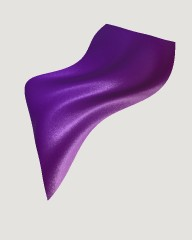
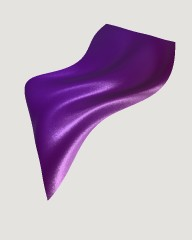
Mystique dot screen from the shop close-up: packed dots in turned grains
The nktextile purple close-up shows round dots of one size packed evenly
everywhere, in small patches of honeycomb rows that run their own way and
curve a little (pressed marbles), not chains with bare lanes.

- fabric.js near branch: grains (jittered grid, GRAIN 9 cells), each its
  own lattice turn (0-60 deg) and shift; a point takes the dot from its two
  nearest grains, kept only if the dot centre lies in that grain. uBend
  (bendOf) bends the lattice gently; the dot offset goes back through the
  bend's Jacobian so dots stay round. Maze (uMaze, MAZE_*) removed.
- Foil dots of uBlend fabrics use the normal before the knit (nCloth):
  the knit relief streaked each dot.
- Mystique presets: presence 1, dotR 0.4, tilt 0.1, rough 0.14, bend 1
  (tilt 0.15 gave salt-and-pepper dots; 0.07 lost the body's highlight
  grain).
- drape-eval.js: macro view at the close-up's scale and a relief argument.
- Mystique, opal and ombre mystique tiles re-rendered.

diff --git a/app/src/materials/fabric.js b/app/src/materials/fabric.js
@@ -93,7 +93,7 @@ uniform float uPresence;   // fraction of cells that carry a flake
 uniform float uTilt;       // random flake tilt (tangent of the typical angle)
 uniform float uFoilRough;
 uniform float uBlend;      // 1 = flat foil dots whose sparkle averages into a shimmer far away
-uniform float uMaze;       // 1 = dots printed in winding chains (mystique's maze screen), not an even lattice
+uniform float uBend;       // cells the dot lattice is bent by (mystique: rows curving from patch to patch)
 uniform float uColorVar;   // per-flake brightness variation
 uniform vec3 uFoilColor;
 uniform float uHolo;       // 0..1 share of rainbow in the foil colour
@@ -165,10 +165,6 @@ uniform sampler2D tDecal;
 uniform vec4 uWrinkle[ 3 ];
 uniform vec4 uWrinkleN[ 3 ];
 
-// Maze screen (uMaze): wave number of the maze (zero lines about pi / MAZE_K = 1.9 cells apart), the
-// half-width of the gaps along them (cells), and the share of lattice dots that leaves.
-const float MAZE_K = 1.65, MAZE_GAP = .3, MAZE_KEEP = .72;
-
 vec3 hash32( vec2 p ) {
 	vec3 p3 = fract( vec3( p.xyx ) * vec3( .1031, .1030, .0973 ) );
 	p3 += dot( p3, p3.yxz + 33.33 );
@@ -184,6 +180,13 @@ float vnoise( vec2 p ) {
 	f = f * f * ( 3. - 2. * f );
 	return mix( mix( hash21( i ), hash21( i + vec2( 1, 0 ) ), f.x ),
 		mix( hash21( i + vec2( 0, 1 ) ), hash21( i + 1. ), f.x ), f.y );
+}
+// Mystique's dot screen (uBend): grains about GRAIN cells across, each its own turned honeycomb, bent
+// by a slow displacement (cells, two octaves) so the rows also curve within a grain.
+const float GRAIN = 9.;
+vec2 bendOf( vec2 c ) {
+	return ( vec2( vnoise( c * .045 ), vnoise( c * .045 + 19.7 ) ) - .5 ) * 2. * uBend
+		+ ( vec2( vnoise( c * .11 + 3.3 ), vnoise( c * .11 + 8.1 ) ) - .5 ) * .7 * uBend;
 }
 // xy = offset from the cell centre, zw = cell id. Centres are 1 apart.
 vec4 hexCell( vec2 p ) {
@@ -321,6 +324,7 @@ const FABRIC_FRAGMENT = /* glsl */`
 	// moire): the loop's two legs first, then the courses, then the wale columns. The grooves
 	// between the wales are deeper than the gap between a loop's legs, and a little darker.
 	// A scanned texture brings its own knit, so this one is off under a scan.
+	vec3 nCloth = normal; // before the knit: what mystique's foil dots lie on (below)
 	if ( uKnit > 0. && uTex < .5 ) {
 		const vec2 kp = vec2( .00038, .00023 ); // wale, course pitch (m)
 		float fw = 1. - smoothstep( .3, .5, fp / kp.x ), fc = 1. - smoothstep( .3, .5, fp / kp.y );
@@ -359,28 +363,45 @@ const FABRIC_FRAGMENT = /* glsl */`
 		// Near: resolve each flake as a disc in a hex cell with its own tilt. (The two branches
 		// are skipped where they contribute nothing; most pixels only ever need one of them.)
 		if ( w < 1. ) {
-			vec4 hc = hexCell( qc );
-			vec3 rn = hash32( hc.zw );
-			// Nudge each flake off the lattice centre (it still fits its own cell): a perfect grid
-			// beats against the pixel grid and shows moire at mid distance.
-			vec2 jit = ( hash32( hc.zw + 3.7 ).xy - .5 ) * 2. * max( .5 - uDotR, 0. );
-			nearMask = ( 1. - smoothstep( uDotR - r * .7, uDotR + r * .7, length( hc.xy - jit ) ) ) * step( rn.z, uPresence );
-			// Mystique's foil is printed in winding chains of dots with bare gaps between them, like a
-			// fingerprint (close-ups and a swatch video, 2026-10-27): densely packed, short chains turning
-			// every way. A sum of six waves of one wavelength in six directions, their phases drifting
-			// slowly so it never repeats, has maze-like zero lines (as Turing patterns do); dots within
-			// MAZE_GAP cells of a zero line are left out, the gaps between chains.
-			if ( uMaze > 0. ) {
-				vec2 c = qc - hc.xy;
-				float f = 0.; vec2 gf = vec2( 0. );
-				for ( int i = 0; i < 6; i ++ ) {
-					float a = float( i ) * .5236 + .2, ph = 6.283 * vnoise( c * .04 + float( i ) * 17.3 );
-					vec2 d = vec2( cos( a ), sin( a ) ) * MAZE_K;
-					f += cos( dot( c, d ) + ph ); gf -= sin( dot( c, d ) + ph ) * d;
+			// Mystique's dots are packed evenly, like marbles pressed together: in small patches they sit
+			// in honeycomb rows, each patch's rows running their own way and curving a little, which reads
+			// as short wavy chains (shop close-up, 2026-10-27). So: grains of about GRAIN cells (a jittered
+			// grid), each with its own turned and shifted lattice; a point takes the dot under it from its two
+			// nearest grains, each kept only if the dot's centre lies in that grain (dots are never cut by a
+			// grain's edge). The lattice is looked up in gently bent coordinates (uBend), and the offset to
+			// the dot's centre is taken back through the bend (its Jacobian) so the dots stay round.
+			vec2 qn = qc, off = vec2( 9. ), did = vec2( 0. ); mat2 unbend = mat2( 1. );
+			if ( uBend > 0. ) {
+				vec2 b0 = bendOf( qc );
+				qn = qc + b0;
+				unbend = inverse( mat2( 1. ) + mat2( bendOf( qc + vec2( .5, 0. ) ) - b0, bendOf( qc + vec2( 0., .5 ) ) - b0 ) * 2. );
+				vec2 g = floor( qn / GRAIN ), c1 = vec2( 0. ), c2 = vec2( 0. ), k1 = vec2( 0. ), k2 = vec2( 0. );
+				float d1 = 1e9, d2 = 1e9;
+				for ( int j = - 1; j <= 1; j ++ ) for ( int i = - 1; i <= 1; i ++ ) {
+					vec2 k = g + vec2( i, j ), c = ( k + .15 + .7 * hash32( k + 41.7 ).xy ) * GRAIN;
+					float d = dot( qn - c, qn - c );
+					if ( d < d1 ) { d2 = d1; c2 = c1; k2 = k1; d1 = d; c1 = c; k1 = k; } else if ( d < d2 ) { d2 = d; c2 = c; k2 = k; }
 				}
-				nearMask *= mix( 1., step( MAZE_GAP, abs( f ) / max( length( gf ), 1e-3 ) ), uMaze );
+				for ( int s = 0; s < 2; s ++ ) {
+					vec2 c = s == 0 ? c1 : c2, o = s == 0 ? c2 : c1, k = s == 0 ? k1 : k2;
+					vec3 h = hash32( k + 7.9 );
+					float a = h.x * 1.0472, ca = cos( a ), sa = sin( a ); // any turn of a honeycomb is within 60 degrees
+					mat2 rot = mat2( ca, sa, - sa, ca );
+					vec4 hk = hexCell( rot * ( qn - c ) + h.yz * 9. );
+					vec2 jit = ( hash32( hk.zw + k * 131.7 + 3.7 ).xy - .5 ) * 2. * max( .5 - uDotR, 0. );
+					vec2 o2 = transpose( rot ) * ( hk.xy - jit ), cw = qn - o2; // offset from the dot, and its centre
+					if ( dot( cw - c, cw - c ) <= dot( cw - o, cw - o ) && dot( o2, o2 ) < dot( off, off ) ) { off = o2; did = hk.zw + k * 131.7; }
+				}
+			} else {
+				vec4 hc = hexCell( qc );
+				// Nudge each flake off the lattice centre (it still fits its own cell): a perfect grid
+				// beats against the pixel grid and shows moire at mid distance.
+				off = hc.xy - ( hash32( hc.zw + 3.7 ).xy - .5 ) * 2. * max( .5 - uDotR, 0. );
+				did = hc.zw;
 			}
-			nearTilt = hash32( hc.zw + 17.3 ) * 2. - 1.;
+			vec3 rn = hash32( did );
+			nearMask = ( 1. - smoothstep( uDotR - r * .7, uDotR + r * .7, length( unbend * off ) ) ) * step( rn.z, uPresence );
+			nearTilt = hash32( did + 17.3 ) * 2. - 1.;
 			rvNear = rn.x;
 		}
 
@@ -396,7 +417,7 @@ const FABRIC_FRAGMENT = /* glsl */`
 			rvFar = ta.z;
 			farDots = s0 * s0 * mix( 1., 4., lf ) * 1.155 * uPresence; // flakes in a cell (1.155 per unit² on the hex lattice)
 		}
-		float coverage = min( 3.6276 * uDotR * uDotR, 1. ) * uPresence * mix( 1., MAZE_KEEP, uMaze );
+		float coverage = min( 3.6276 * uDotR * uDotR, 1. ) * uPresence;
 		// sparse flakes stay sparse far away: only a coverage share of the pixel-sized cells carry one
 		// (denser foils, coverage over 0.3, keep every cell sparkling as in the POC)
 		float farOn = coverage > .3 ? coverage : step( fract( rvFar * 7.31 ), coverage );
@@ -412,7 +433,9 @@ const FABRIC_FRAGMENT = /* glsl */`
 		vec3 tilt = mix( nearTilt, farTilt * keep, w );
 		float rv = mix( rvNear, rvFar, w );
 
-		vec3 nF = normalize( normal + ( tilt - normal * dot( tilt, normal ) ) * uTilt );
+		// Flat foil dots (uBlend) bridge the knit's loops: a smooth disc each, not ridged by the knit
+		vec3 nBase = uBlend > 0. ? nCloth : normal;
+		vec3 nF = normalize( nBase + ( tilt - nBase * dot( tilt, nBase ) ) * uTilt );
 		// a sparse flake turned away from the camera would shade black: keep it facing us a little
 		if ( coverage <= .3 ) { float fv = dot( nF, viewDir ); if ( fv < .2 ) nF = normalize( nF + viewDir * ( .2 - fv ) ); }
 		// On an ombre the foil is printed with the same gradient as the cloth under it.
@@ -593,7 +616,7 @@ export function createFabricMaterial(zone) {
 		uTrimInset: { value: 0 }, uTrimWidth: { value: 0 }, uRows: { value: new THREE.Vector2() }, uThread: { value: new THREE.Color() },
 		uTapeY: { value: new THREE.Vector4(1.04, 1.168, 0.83, 1.357) }, uTapeColor: { value: new THREE.Color(0x15151a) },
 		uFlake: { value: 0 }, uPitch: { value: 0.001 }, uDotR: { value: 0.4 }, uPresence: { value: 1 }, uTilt: { value: 0.1 },
-		uFoilRough: { value: 0.2 }, uBlend: { value: 0 }, uMaze: { value: 0 }, uColorVar: { value: 0 }, uFoilColor: { value: new THREE.Color(1, 1, 1) },
+		uFoilRough: { value: 0.2 }, uBlend: { value: 0 }, uBend: { value: 0 }, uColorVar: { value: 0 }, uFoilColor: { value: new THREE.Color(1, 1, 1) },
 		uHolo: { value: 0 }, uHoloFreq: { value: 3 }, uHoloJit: { value: 0.2 }, uHoloDirW: { value: new THREE.Vector3(0.3, 1, 0.5).normalize() },
 		uMesh: { value: 0 }, uMeshPitch: { value: 0.0007 }, uHoleR: { value: 0.34 },
 		uBumpAmp: { value: 0 }, uBumpScale: { value: 0.003 }, uKnit: { value: 0 },
@@ -633,8 +656,8 @@ export function createFabricMaterial(zone) {
 // Sheen is left off the foil and glitter fabrics on purpose: it roughly doubles the cost of every
 // light and is invisible next to the foil.
 // Flake fields: pitch (m), dotR (cells), presence, tilt, rough, colorVar, holo, holoFreq, holoJit, blend
-// (1: flat foil dots whose sparkle averages into a shimmer far away), maze (1: dots in winding chains);
-// blend and maze are mystique's, from its 2026-10-27 audit.
+// (1: flat foil dots whose sparkle averages into a shimmer far away), bend (cells: the dot lattice's
+// rows curve from patch to patch); blend and bend are mystique's, from its 2026-10-27 audit.
 export const FABRICS = {
 	// Matte lycra's sheen is low and close to its own colour: at 0.4 and a third white (the tint is
 	// mixed in linear light, so a third white is nearly white on a dark colour) a dark green's
@@ -656,13 +679,13 @@ export const FABRICS = {
 	wet: { label: 'Wet look (cire)', roughness: 0.32, sheen: 0.15, sheenRoughness: 0.5, clearcoat: 0.55, clearcoatRoughness: 0.2, anisotropy: 0.5, knit: 1 },
 	// Mystique's dots at 133%: about 1 mm apart, as in the owner's swatch video and shop close-ups
 	// (2026-10-27); at 75% (the owner's 2026-10-24 pick) they blurred into a satin sheen at swatch distance.
-	mystique: { label: 'Mystique (foil dots)', roughness: 0.62, knit: 1, flake: { pitch: 0.00075, dotR: 0.42, presence: 0.97, tilt: 0.15, rough: 0.12, colorVar: 0.1, blend: 1, maze: 1 }, texScale: 1.33 },
+	mystique: { label: 'Mystique (foil dots)', roughness: 0.62, knit: 1, flake: { pitch: 0.00075, dotR: 0.4, presence: 1, tilt: 0.1, rough: 0.14, colorVar: 0.1, blend: 1, bend: 1 }, texScale: 1.33 },
 	// Opal mystique: the foil dots carry a soft rainbow that turns with the surface (an iridescent foil;
 	// a dyed knit cannot change colour with the angle). Its rate is a thin film's: about half to one
 	// and a half spectra from face on to 60 degrees, holoFreq ~0.6-1.8; 1 in the middle. (3.2, a
 	// diffraction foil's rate, ringed the body with rainbows; owner, 2026-10-27.) Panels can scale it
 	// (rainbow, render/garment.js).
-	opalmystique: { label: 'Opal mystique', roughness: 0.62, knit: 1, flake: { pitch: 0.00075, dotR: 0.42, presence: 0.97, tilt: 0.15, rough: 0.12, colorVar: 0.1, blend: 1, maze: 1, holo: 0.35, holoFreq: 1, holoJit: 0.15 }, texScale: 1.33 },
+	opalmystique: { label: 'Opal mystique', roughness: 0.62, knit: 1, flake: { pitch: 0.00075, dotR: 0.4, presence: 1, tilt: 0.1, rough: 0.14, colorVar: 0.1, blend: 1, bend: 1, holo: 0.35, holoFreq: 1, holoJit: 0.15 }, texScale: 1.33 },
 	hologram: { label: 'Hologram foil dots', roughness: 0.62, knit: 1, flake: { pitch: 0.0009, dotR: 0.37, presence: 1, tilt: 0.22, rough: 0.22, colorVar: 0.3, holo: 0.6, holoFreq: 0.9, holoJit: 0.5 } },
 	// The foils, film and velvets used to carry a value-noise "crinkle" bump (amp 0.1-0.7) from the
 	// POC: crumpled foil, not foil on a knit pulled tight over a body. On skin-tight fabric tension
@@ -677,7 +700,7 @@ export const FABRICS = {
 	mesh: { label: 'Stretch mesh (sheer)', roughness: 0.75, sheen: 0.3, sheenRoughness: 0.6, mesh: { pitch: 0.0007, holeR: 0.35 } },
 	glittermesh: { label: 'Glitter mesh', roughness: 0.75, mesh: { pitch: 0.0007, holeR: 0.35 }, flake: { pitch: 0.0005, dotR: 0.5, presence: 0.1, tilt: 0.5, rough: 0.1, colorVar: 0.5 } },
 	ombre: { label: 'Sublimated ombré', roughness: 0.74, sheen: 0.35, sheenRoughness: 0.6, knit: 1, ombre: true },
-	ombremystique: { label: 'Ombré mystique', roughness: 0.62, knit: 1, ombre: true, flake: { pitch: 0.00075, dotR: 0.42, presence: 0.97, tilt: 0.15, rough: 0.12, colorVar: 0.1, blend: 1, maze: 1 } },
+	ombremystique: { label: 'Ombré mystique', roughness: 0.62, knit: 1, ombre: true, flake: { pitch: 0.00075, dotR: 0.4, presence: 1, tilt: 0.1, rough: 0.14, colorVar: 0.1, blend: 1, bend: 1 } },
 	// Moodboard looks added in P3 (realism upgrade R7b). film: thin-film swirls { scale m, range nm, warp,
 	// tint: share of the film's colour in the cloth, hue: [per swirl, per angle] };
 	// duo: { pow } shift towards the second colour at grazing angles.
@@ -743,7 +766,7 @@ export function applyFabric(m, key, colour, second, colour2 = null, scale = 1) {
 	u.uFlake.value = fl ? 1 : 0;
 	if (fl) {
 		u.uPitch.value = fl.pitch * scale; u.uDotR.value = fl.dotR; u.uPresence.value = fl.presence; u.uTilt.value = fl.tilt;
-		u.uFoilRough.value = fl.rough; u.uBlend.value = fl.blend ?? 0; u.uMaze.value = fl.maze ?? 0; u.uColorVar.value = fl.colorVar ?? 0; u.uHolo.value = fl.holo ?? 0; u.uHoloFreq.value = fl.holoFreq ?? 3; u.uHoloJit.value = fl.holoJit ?? 0.2;
+		u.uFoilRough.value = fl.rough; u.uBlend.value = fl.blend ?? 0; u.uBend.value = fl.bend ?? 0; u.uColorVar.value = fl.colorVar ?? 0; u.uHolo.value = fl.holo ?? 0; u.uHoloFreq.value = fl.holoFreq ?? 3; u.uHoloJit.value = fl.holoJit ?? 0.2;
 		two(false, u.uFoilColor.value);
 	}
 	u.uDuo.value = f.duo ? 1 : 0;

diff --git a/app/src/dev/drape-eval.js b/app/src/dev/drape-eval.js
@@ -25,12 +25,12 @@ function height(x, z) {
 	return swirl + folds + peak + lean;
 }
 
-function drape() {
+function drape(relief = 1) {
 	const n = 360, pos = [], nrm = [], uv = [], idx = [], e = 1e-4;
 	for (let j = 0; j <= n; j++) for (let i = 0; i <= n; i++) {
 		const x = (i / n - 0.5) * 2 * R, z = (j / n - 0.5) * 2 * R;
-		const dx = (height(x + e, z) - height(x - e, z)) / (2 * e), dz = (height(x, z + e) - height(x, z - e)) / (2 * e), L = Math.hypot(dx, 1, dz);
-		pos.push(x, height(x, z), z); nrm.push(-dx / L, 1 / L, -dz / L); uv.push(x, z);
+		const dx = relief * (height(x + e, z) - height(x - e, z)) / (2 * e), dz = relief * (height(x, z + e) - height(x, z - e)) / (2 * e), L = Math.hypot(dx, 1, dz);
+		pos.push(x, relief * height(x, z), z); nrm.push(-dx / L, 1 / L, -dz / L); uv.push(x, z);
 	}
 	for (let j = 0; j < n; j++) for (let i = 0; i < n; i++) { const a = j * (n + 1) + i; idx.push(a, a + n + 1, a + 1, a + 1, a + n + 1, a + n + 2); }
 	const g = new THREE.BufferGeometry(), N = (n + 1) * (n + 1);
@@ -62,6 +62,9 @@ const AT = [0, 1.1, 0];
 const VIEWS = {
 	swatch: { position: [0.02, 0.2, 0.47], fov: 26, size: [1000, 1000] },
 	close: { position: [0.03, 0.06, 0.15], at: [0.03, 0, 0], fov: 26, size: [1000, 1000] },
+	// face on, beside the gathered centre, at the scale of the shop close-up (about 12 px between dots);
+	// use with a low relief so the folds do not stretch the cloth's flat-mapped pattern
+	macro: { position: [-0.09, -0.07, 0.18], at: [-0.09, -0.07, 0], fov: 26, size: [1000, 1000] },
 };
 // a view's offsets from the cloth (x across, y up the cloth, z out of its face) placed in the room
 function place(v, face) {
@@ -71,7 +74,9 @@ function place(v, face) {
 }
 
 // colour: a hex colour or { colour, colour2, second }; tweak: fabric fields for this shot only
-export async function shoot(fabric, colour, tag, views = ['swatch', 'close'], tweak = null, face = 'front') {
+// relief: the folds' height (1 = the swirl; low for macro views: the pattern is mapped flat, so steep
+// folds stretch it)
+export async function shoot(fabric, colour, tag, views = ['swatch', 'close'], tweak = null, face = 'front', relief = 1) {
 	const fm = await fabricModule(), F = fm.FABRICS, saved = { ...F[fabric] };
 	if (tweak) Object.assign(F[fabric], tweak);
 	const look = typeof colour === 'string' ? { colour } : colour;
@@ -84,7 +89,7 @@ export async function shoot(fabric, colour, tag, views = ['swatch', 'close'], tw
 	m.userData.u.uOffset.value = 0; m.userData.u.uGarment.value = 0;
 	fm.applyFabric(m, fabric, look.colour, look.second ?? 'Tone-on-tone', look.colour2 ?? null, fm.texScaleOf({ fabric }));
 	m.userData.u.uUV.value = 1;
-	const mesh = new THREE.Mesh(drape(), m);
+	const mesh = new THREE.Mesh(drape(relief), m);
 	if (face === 'up') mesh.position.set(0, AT[1] - 0.3, 0); // flat, at table height
 	else { mesh.rotation.x = Math.PI / 2; mesh.position.fromArray(AT); } // its up (+y) to the front (+z)
 	vp.scene.traverse((o) => { if ((o.isMesh || o.isPoints || o.isLine) && o.visible) { hidden.push(o); o.visible = false; } });

diff --git a/knowledge/engineering/rendering/fabric-shading/photo-match-mystique.md b/knowledge/engineering/rendering/fabric-shading/photo-match-mystique.md
@@ -168,6 +168,35 @@ reads darker and more foil-coloured overall, flat it reads foil-coloured and bri
 light (one strong key over the camera, dark surroundings) is not one of the loft's orientations.
 Close up, dots, chains and the knit between them match well.
 
+# Round 4: the dot screen from the shop close-up (2026-10-27)
+
+Owner: the dot pattern still needed work; match the nktextile purple close-up. Enlarged crops of it
+show: round dots of one size, about 0.8 of their spacing across, **packed evenly everywhere** (no
+lanes or bare lines, unlike the maze), in **small patches of honeycomb rows** that run their own
+way and curve a little, like pressed marbles; that is what reads as "wavy chains". Inside a
+highlight neighbouring dots are about equally bright; off it the dots go dark and the knit shows
+as a lighter mesh.[^owner-2026-10-27]
+
+Changes (`app/src/materials/fabric.js`, near branch of the flake code):
+- **Grains** replace the maze (`maze`/`uMaze`, `MAZE_*` removed): a jittered grid of grains
+  `GRAIN` = 9 cells across, each with its own lattice turn (0-60 degrees) and shift; a point takes
+  the dot under it from its two nearest grains, kept only if that dot's centre lies in the grain
+  (no dots cut by a seam). `bend` (cells, `uBend`, `bendOf`) gently bends the lattice too (1);
+  the offset to the dot centre goes back through the bend's Jacobian so dots stay round. GRAIN 6
+  looked too fine; a displacement bend alone (2-4.5) made long straight rows or, stronger, bare
+  stretched gaps.
+- `presence` 0.97 -> 1 (no missing dots), `dotR` 0.42 -> 0.4.
+- **Dots ignore the knit relief** (`nCloth`, the normal before the knit, for `uBlend` fabrics):
+  the knit's ridges made vertical streaks across each dot.
+- **Flatter, softer dots**: `tilt` 0.15 -> 0.1, `rough` 0.12 -> 0.14. At 0.15 neighbouring dots
+  varied salt-and-pepper; at 0.07 the close-up matched best but the leotard lost the grain in its
+  highlights that the owner's leotard photos show; 0.1 keeps both.
+- `dev/drape-eval.js`: `macro` view (face on, about 12 px between dots, the close-up's scale) and
+  a `relief` argument (the test cloth's pattern is mapped flat, so steep folds stretch it; use
+  0.25 for dot checks).
+
+Mystique, opal and ombre mystique picker tiles re-rendered.
+
 # Rainbow speed (2026-10-27)
 
 Owner: Opal mystique's colours changed too fast on the leotard (holoFreq 3.2 ringed the bust and

diff --git a/knowledge/log.md b/knowledge/log.md
@@ -1,6 +1,7 @@
 # Bundle update log
 
 ## 2026-10-27
+* **Update**: [Photo match: mystique](/engineering/rendering/fabric-shading/photo-match-mystique.md#round-4-the-dot-screen-from-the-shop-close-up-2026-10-27) round 4: the dot screen rebuilt from the shop close-up as evenly packed dots in small turned honeycomb grains (maze removed), no missing dots, dots smooth over the knit, flatter dots (tilt 0.1).
 * **Update**: [Photo match: mystique](/engineering/rendering/fabric-shading/photo-match-mystique.md#rainbow-speed-2026-10-27): rainbow rate from physics (no published data): diffraction foils about 3.3 in shader units, thin-film opal 0.6-1.8; Opal mystique 3.2 -> 1; new per-panel Rainbow speed.
 * **Update**: [Photo match: mystique](/engineering/rendering/fabric-shading/photo-match-mystique.md) round 3 on a crumpled test cloth (`app/src/dev/drape-eval.js`): denser maze of short chains (sum of six waves), dots at 133% (reverses the owner's 75% of [2026-10-24](/decisions/2026-10-24-owner-fabric-review.md), flagged), new Opal mystique (rainbow in the foil dots), Liquid hologram (opal) retuned to an electric-foil close-up; picker tiles re-rendered in the White loft.
 * **Decision**: [Photographed (HDRI) studios only](/decisions/2026-10-27-hdri-lighting-only.md): the light-only and softbox rigs and the circling-lights switch are removed; designs naming one open in the White loft studio, which is also the material test scene. [Scripting surface](/engineering/app/scripting-surface.md) and [studio rigs](/engineering/app/studio-and-fabric-looks.md) updated.
